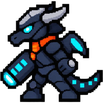
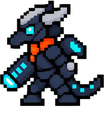
Title: dragon soldier leads the new row, jester second, shark peeks out of water and is bigger; row packed tight; new dragon art
Claude-Session: https://claude.ai/code/session_012sws1hFx6iBTapYXwjPYxu

Changed region(s): [[0.0, 0.0, 1.0, 0.9375], [0.5825, 0.6696, 0.6117, 0.6964]]

diff --git a/tools/add_title_enemies.py b/tools/add_title_enemies.py
@@ -1,5 +1,5 @@
 #!/usr/bin/env python3
-"""Adds the jester, the dragon-armoured soldier, the X soldier and the storm shark to the title art's enemy side.
+"""Adds the jester, the dragon-armoured soldier, the X soldier and the storm shark (peeking out of the water) to the title art's enemy side.
 
 The enemy side of the title is two baked layers (assets/title/layer_20_enemies.png and the
 "fallen" one shown once the king has been beaten). This pastes the three newcomers into both in a
@@ -19,9 +19,13 @@ import numpy as np
 from PIL import Image, ImageDraw, ImageFilter
 
 TITLE = "assets/title/"
-HEIGHTS = {"jester": 112, "dragon": 112, "cross": 112, "shark": 128}   # the soldiers run 135-140 px; a row in front looks smaller
-FEET_Y = 1010         # where the new front row stands (above the catalogue button, clear of the menu window)
-SLOTS = {"jester": 1262, "dragon": 1450, "cross": 1612, "shark": 1775}   # feet centre x
+HEIGHTS = {"dragon": 116, "jester": 112, "cross": 112}   # the soldiers run 135-140 px; a row in front looks smaller
+ORDER = ["dragon", "jester", "cross"]   # nearest the heroes (left) first: the dragon leads, the jester is second
+FEET_Y = 1010         # where the new front row stands (above the catalogue button)
+START_X = 1214        # right next to the menu window (its right edge is x 1205)
+GAP = 1               # sprites stand shoulder to shoulder without overlapping, leaving room on the right for more enemies
+SHARK_HEIGHT = 240    # a boss: the biggest of the row; only the part above the water shows
+SHARK_ABOVE = 0.62    # fraction of the shark standing out of the water
 
 
 def transparent(im):
@@ -63,27 +67,66 @@ def fit(im, height):
     return im.resize((w, height), Image.LANCZOS)
 
 
+def shark_in_water(shark):
+    """The storm shark peeking out of the water: the upper part of its body over a ripple pool."""
+    shark = fit(shark, SHARK_HEIGHT)
+    w, h = shark.size
+    keep = round(h * SHARK_ABOVE)
+    body = shark.crop((0, 0, w, keep))
+    pad = 16
+    pool_h = 70
+    canvas = Image.new("RGBA", (w + pad * 2, keep + pool_h), (0, 0, 0, 0))
+    cy = keep   # the waterline
+    cx = canvas.size[0] // 2
+    draw = ImageDraw.Draw(canvas)
+    # The pool seen from a slant: a dark body of water with rings spreading from the shark.
+    draw.ellipse((cx - w // 2 - pad + 4, cy - 18, cx + w // 2 + pad - 4, cy + 34), fill=(14, 38, 66, 230))
+    for k, alpha in ((0, 200), (1, 130), (2, 70)):
+        grow = k * 9
+        draw.ellipse((cx - w // 2 - pad + 4 - 0 + k * 3, cy - 18 + k * 2, cx + w // 2 + pad - 4 - k * 3, cy + 34 - k * 2), outline=(110, 220, 255, alpha), width=2)
+    canvas.alpha_composite(body, (pad, 0))
+    # The water in front of the body hides where it was cut: a lip of surface, foam where the two meet.
+    front = Image.new("RGBA", canvas.size, (0, 0, 0, 0))
+    fd = ImageDraw.Draw(front)
+    fd.ellipse((cx - w // 2 - 6, cy - 12, cx + w // 2 + 6, cy + 24), fill=(22, 66, 108, 245))
+    fd.ellipse((cx - w // 2 - 6, cy - 12, cx + w // 2 + 6, cy + 24), outline=(190, 245, 255, 235), width=3)
+    fd.ellipse((cx - w // 2 + 8, cy - 6, cx + w // 2 - 8, cy + 16), outline=(120, 215, 255, 150), width=2)
+    # Foam flecks and a few drops thrown up beside the head and the tail.
+    for fx, fy, r in ((-0.52, -0.02, 4), (-0.44, -0.12, 3), (0.5, 0.0, 4), (0.42, -0.1, 3), (0.1, 0.1, 3), (-0.2, 0.12, 3)):
+        px, py = cx + int(fx * w), cy + int(fy * 60)
+        fd.ellipse((px - r, py - r, px + r, py + r), fill=(230, 250, 255, 220))
+    canvas.alpha_composite(front)
+    return canvas
+
+
 def main(jester_src, dragon_src, cross_src, shark_src):
     sprites = {
         "jester": fit(transparent(Image.open(jester_src)), HEIGHTS["jester"]),
         "dragon": fit(last_pose(transparent(Image.open(dragon_src))), HEIGHTS["dragon"]),
         "cross": fit(last_pose(transparent(Image.open(cross_src))), HEIGHTS["cross"]),
-        "shark": fit(Image.open(shark_src).convert("RGBA"), HEIGHTS["shark"]),
     }
     layers = [Image.open(TITLE + n).convert("RGBA") for n in ("layer_20_enemies.png", "layer_20_enemies_fallen.png")]
     units = json.load(open(TITLE + "units.json"))
     z = max(u["z"] for u in units if u["side"] == "enemies") + 1
     names = {"jester": "道化兵", "dragon": "竜装兵", "cross": "バッテン兵", "shark": "嵐鮫"}
-    for kid, sprite in sprites.items():
+    placed = []
+    x = START_X
+    for kid in ORDER:
+        sprite = sprites[kid]
+        placed.append((kid, sprite, x, FEET_Y - sprite.size[1], True))
+        x += sprite.size[0] + GAP
+    shark = shark_in_water(Image.open(shark_src).convert("RGBA"))
+    # The shark stands last in the row; new enemies go into ORDER above (before the shark).
+    placed.append(("shark", shark, x - 6, FEET_Y - shark.size[1] + 40, False))
+    for kid, sprite, x, y, shadow_wanted in placed:
         w, h = sprite.size
-        x = SLOTS[kid] - w // 2
-        y = FEET_Y - h
-        # A soft shadow under the feet, like the rest of the row.
-        shadow = Image.new("RGBA", (w + 40, 40), (0, 0, 0, 0))
-        ImageDraw.Draw(shadow).ellipse((6, 8, w + 34, 32), fill=(0, 0, 0, 120))
-        shadow = shadow.filter(ImageFilter.GaussianBlur(5))
+        if shadow_wanted:
+            shadow = Image.new("RGBA", (w + 40, 40), (0, 0, 0, 0))
+            ImageDraw.Draw(shadow).ellipse((6, 8, w + 34, 32), fill=(0, 0, 0, 120))
+            shadow = shadow.filter(ImageFilter.GaussianBlur(5))
+            for layer in layers:
+                layer.alpha_composite(shadow, (x - 20, FEET_Y - 26))
         for layer in layers:
-            layer.alpha_composite(shadow, (x - 20, FEET_Y - 26))
             layer.alpha_composite(sprite, (x, y))
         sprite.save(TITLE + f"units/enemies_{kid}.png", optimize=True)
         units.append({"id": kid, "name": names[kid], "side": "enemies", "file": f"units/enemies_{kid}.png", "x": x, "y": y, "w": w, "h": h, "z": z})
